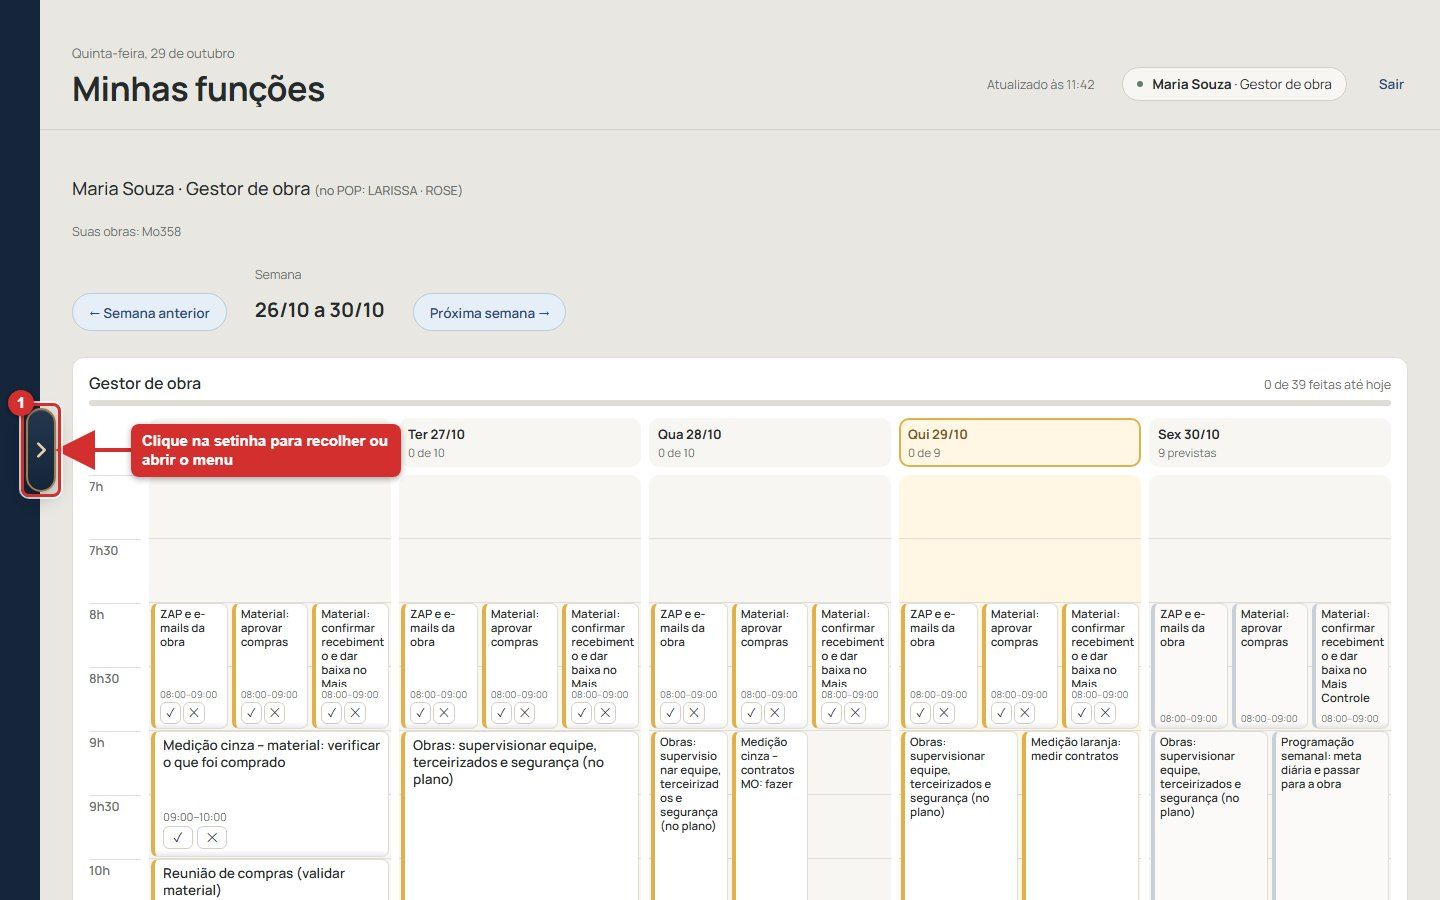
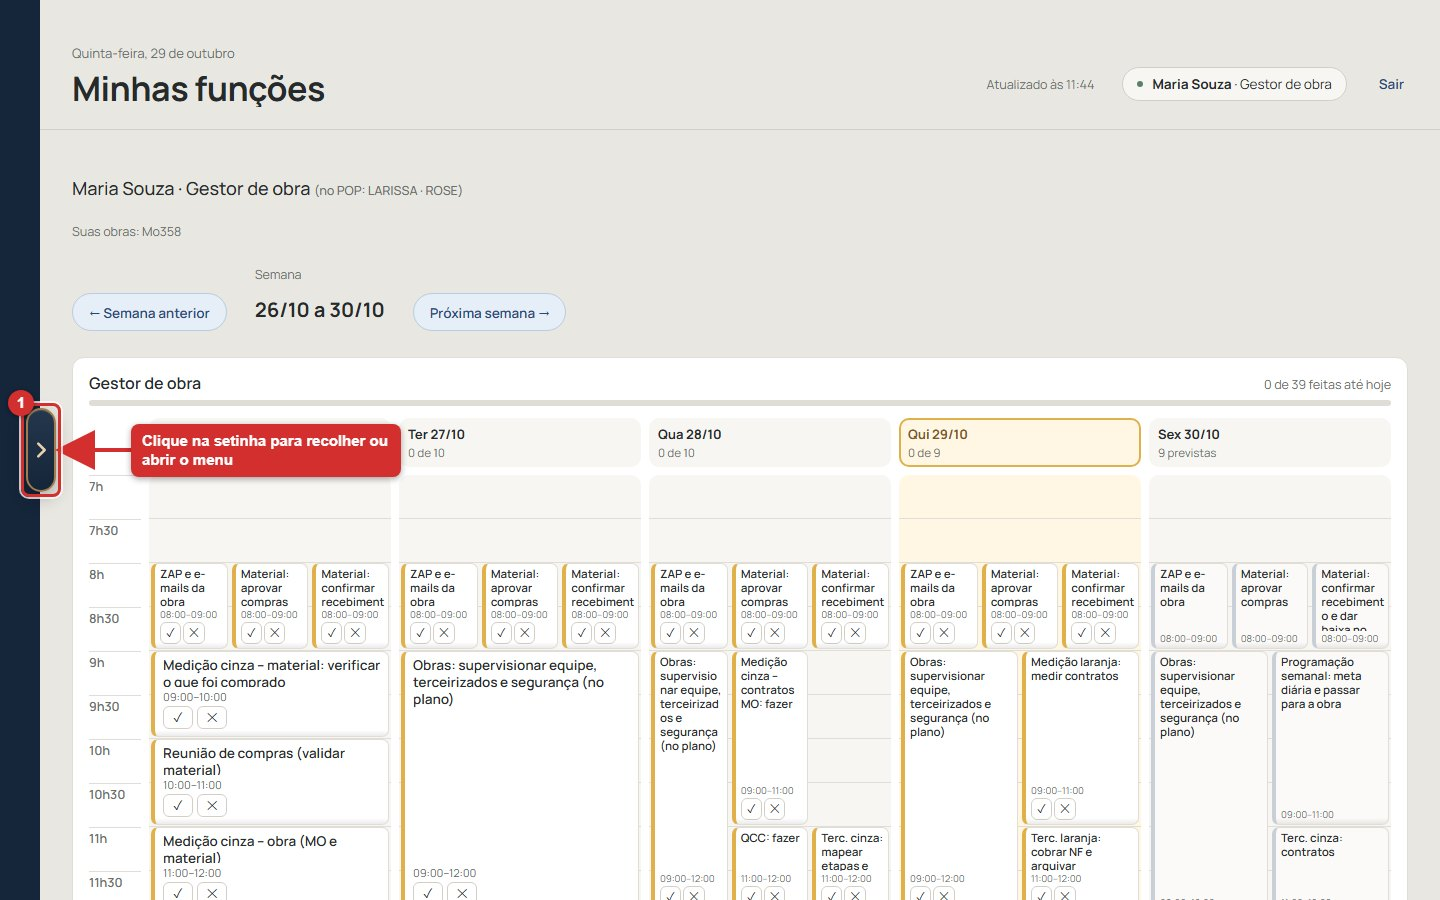
Minhas funcoes: linhas da agenda mais baixas (44 px por meia hora); prints atualizados

diff --git a/app/js/telas/meudia.js b/app/js/telas/meudia.js
@@ -1,4 +1,4 @@
-// "Minha semana" (antes "Meu dia"): duas abas, as duas no formato de quadro da semana.
+// "Minha semana" (antes "Meu dia"): duas abas, as duas no formato de quadro da semana.
 //   Semana  — itens da programação × segunda a sexta: programado na semana, meta e executado de cada dia,
 //             lançado direto na célula (só funções de obra, sócio e coordenação)
 //   Funções — tarefas da função (POP R14) × segunda a sábado, com ✓ feito / ✕ não feito em cada célula
@@ -42,7 +42,7 @@ export const ABAS = [
 // Cada tarefa é um cartão: arrastar muda o dia/horário, puxar a borda de baixo muda a duração, clicar abre
 // uma janelinha com os detalhes (e os mesmos ajustes, para quem está no celular). Cartões no mesmo horário
 // ficam lado a lado, com o texto cortado em "…". O ajuste fica guardado neste navegador, por dia da tarefa.
-export const GRADE = { ini: 7 * 60, passo: 30, faixas: 24, alt: 64 };   // alt = altura de cada meia hora (maior = cartões com o texto inteiro)
+export const GRADE = { ini: 7 * 60, passo: 30, faixas: 24, alt: 44 };   // alt = altura de cada meia hora (maior = cartões com o texto inteiro)
 const PADRAO = 8 * 60; // sem horário no quadro: começa às 8h
 function previsto(t) {
   const txt = String(t.hora || '');

diff --git a/app/css/estilo.css b/app/css/estilo.css
@@ -1,4 +1,4 @@
-/* Sistema Sólida — mesmo visual do Painel da Empresa (Solida.exe):
+/* Sistema Sólida — mesmo visual do Painel da Empresa (Solida.exe):
    barra lateral azul-marinho, fundo calcário, Manrope, detalhes em bronze, clicáveis em azul. */
 
 :root {
@@ -2141,7 +2141,7 @@ body.nav-recolhido .fh-cont { font-size: 12.5px; }
 .fq-quadro { column-gap: 8px; overflow-x: visible; }
 .fq-horas { font-size: 12.5px; color: var(--muted); }
 .fq-horas span { border-top: 1px solid var(--linha2); padding-top: 2px; font-weight: 600; }
-.fq-trilho { background-image: repeating-linear-gradient(to bottom, transparent 0, transparent 63px, var(--linha2) 63px, var(--linha2) 64px); }
+.fq-trilho { background-image: repeating-linear-gradient(to bottom, transparent 0, transparent 43px, var(--linha2) 43px, var(--linha2) 44px); }
 .fq-card { padding: 5px 7px 7px 8px; font-size: 12.5px; line-height: 16px; gap: 3px; }
 .fq-nome { display: block; flex: 1 1 auto; min-height: 0; overflow: hidden; text-overflow: clip; -webkit-line-clamp: unset; -webkit-box-orient: unset; font-weight: 600; word-break: break-word; }
 .fq-card .fn-meta { font-size: 11px; line-height: 13px; flex: none; }
